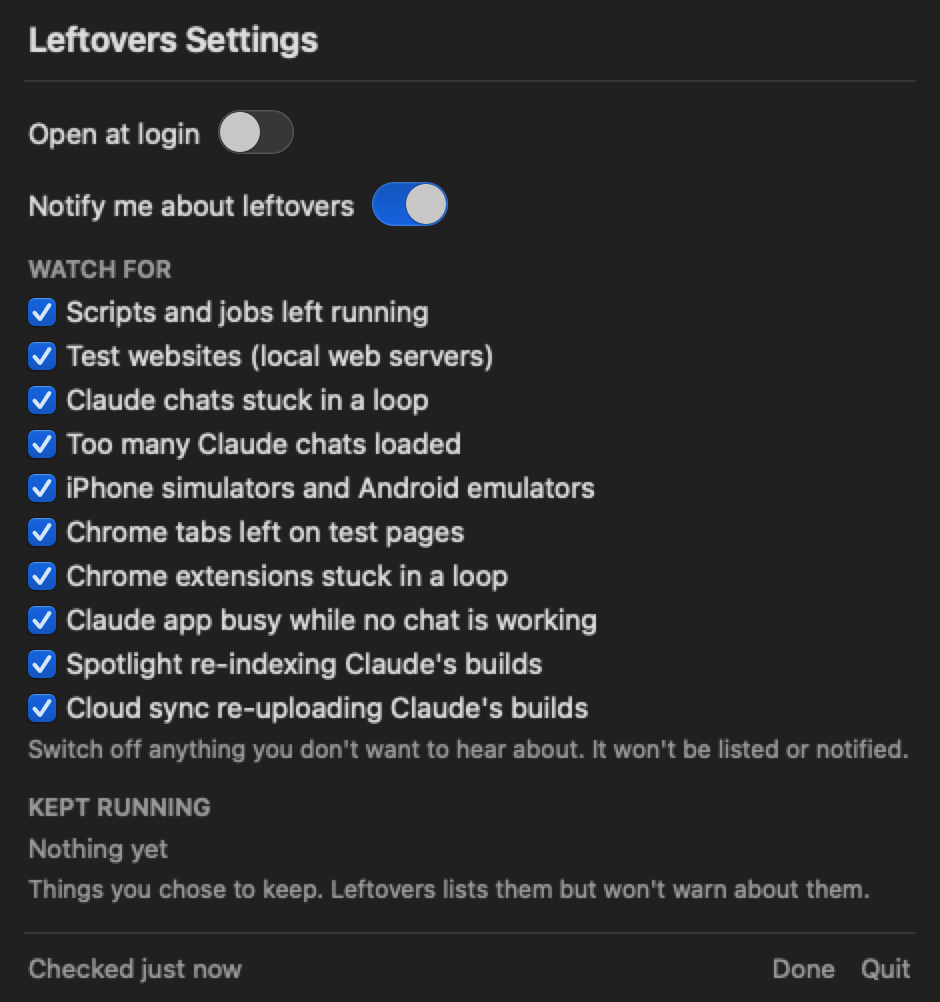
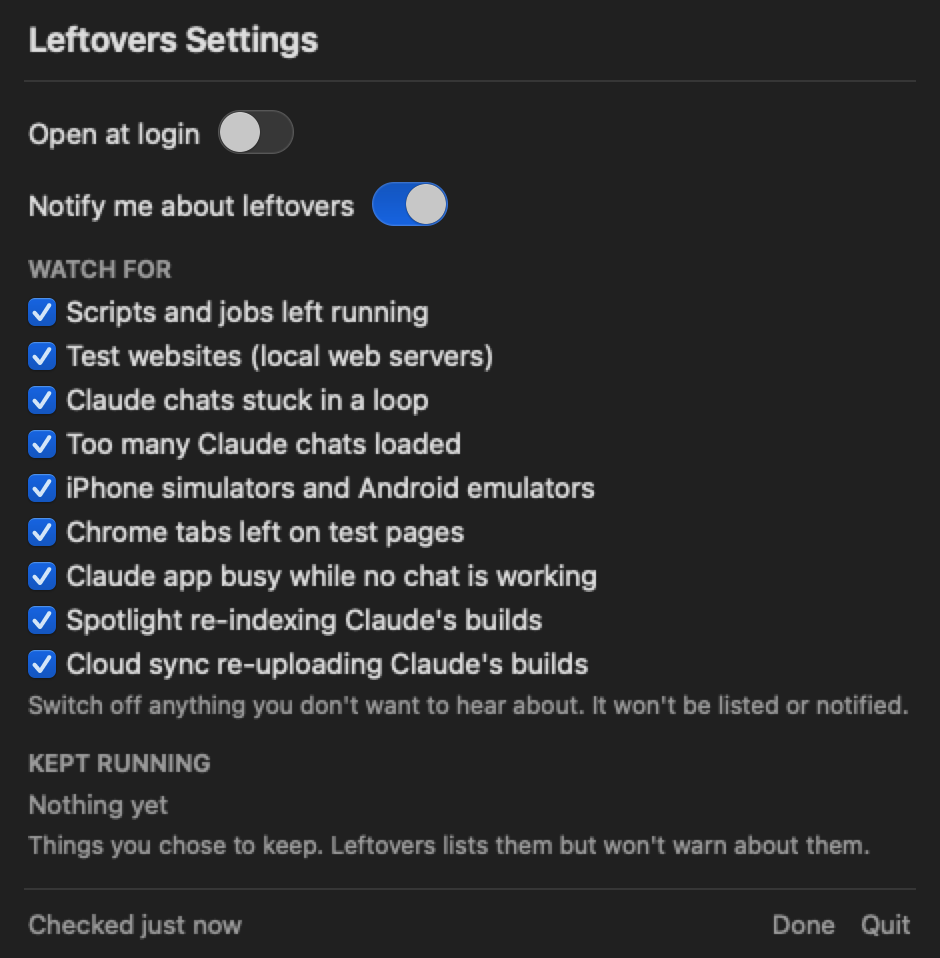
Remove the Chrome extension check (keep Leftovers focused on the Claude desktop app)

diff --git a/Sources/Leftovers/Monitor.swift b/Sources/Leftovers/Monitor.swift
@@ -388,7 +388,7 @@ final class Monitor: NSObject, ObservableObject {
         // (LEFTOVERS_NO_CHROME=1 skips this when testing from Terminal, so macOS doesn't ask Terminal for Chrome access.)
         if ProcessInfo.processInfo.environment["LEFTOVERS_NO_CHROME"] == nil,
            procs.contains(where: { $0.name == "Google Chrome" && $0.path.hasPrefix("/Applications/") }) {
-            // Page processes only (extension processes are checked on their own below).
+            // Page processes only (not extensions).
             let renderers = procs.filter { $0.path.contains("Google Chrome") && $0.name.contains("Renderer")
                 && !$0.args.contains("--extension-process") }
             var chromeCPU = 0.0
@@ -403,17 +403,6 @@ final class Monitor: NSObject, ObservableObject {
                                   cpuPercent: chromeCPU, keepKey: "tab-" + tab.url, noun: "Chrome tab",
                                   apps: server == nil && !tab.url.hasPrefix("file:") ? ["server stopped"] : []))
             }
-        }
-
-        // Chrome extensions stuck working in the background (Claude in Chrome has had this bug). Chrome
-        // doesn't say which extension a process belongs to, so the advice points to Chrome's Task Manager.
-        for p in procs where p.path.contains("Google Chrome") && p.args.contains("--extension-process") {
-            let r = rate(p)
-            guard r.cpu >= 10 else { continue }
-            items.append(Item(id: "ext-\(p.pid)-\(Int(p.start.timeIntervalSince1970))", kind: .chromeExtension,
-                              title: "Chrome extension", detail: "", command: "", pids: [p.pid], started: p.start,
-                              cpuPercent: r.cpu, watts: r.watts, batteryPerHour: perHour(r.watts),
-                              averageCpu: r.average, keepKey: "chrome-extension", noun: "Chrome extension"))
         }
 
         previous = samples

diff --git a/Sources/Leftovers/Classify.swift b/Sources/Leftovers/Classify.swift
@@ -194,8 +194,6 @@ enum Describe {
             return i.verdict.tag == "Stuck" ? "Claude chat stuck in a loop: “\(i.title)”" : "“\(i.title)”"
         case .helperPileup:
             return "Too many Claude chats loaded (\(i.apps.count))"
-        case .chromeExtension:
-            return "Chrome extension busy in the background"
         case .appStarted, .sessionJob:
             return i.ports.isEmpty ? i.noun + place : "Test website" + (i.project.map { " for \($0)" } ?? "")
         case .leftover:
@@ -210,7 +208,7 @@ enum Describe {
 
     /// Category icon (SF Symbols): anything stuck in a loop shares one icon; otherwise it shows the kind of thing.
     static func icon(_ i: Item) -> String {
-        if ["Looks stuck", "Stuck", "Spinning"].contains(i.verdict.tag) { return "arrow.triangle.2.circlepath" }
+        if ["Looks stuck", "Stuck"].contains(i.verdict.tag) { return "arrow.triangle.2.circlepath" }
         switch i.kind {
         case .simulator: return "iphone"
         case .android: return "smartphone"
@@ -219,7 +217,6 @@ enum Describe {
         case .claudePreview: return "macwindow"
         case .spotlight: return "magnifyingglass"
         case .cloudSync: return "icloud.and.arrow.up"
-        case .chromeExtension: return "puzzlepiece.extension"
         case .leftover, .appStarted, .sessionJob: break
         }
         if !i.ports.isEmpty || i.noun == "Test website" { return "globe" }
@@ -252,8 +249,6 @@ enum Describe {
             return ("Fix", "add \(root) to Spotlight's Search Privacy list")
         case .cloudSync:
             return ("Fix", "move Claude's projects out of the synced folder, e.g. to ~/Developer")
-        case .chromeExtension:
-            return ("Fix", "find it in Chrome's Task Manager, then turn it off and on at chrome://extensions")
         case .sessionJob:
             return nil
         case .leftover, .appStarted:

diff --git a/Sources/Leftovers/Model.swift b/Sources/Leftovers/Model.swift
@@ -41,12 +41,11 @@ enum ItemKind: String, Codable, CaseIterable {
     case browserTab    // a Chrome tab showing one of Claude's test pages
     case chatHelper    // the background program behind one Claude chat
     case helperPileup  // far more chat helpers than chats you use (a known Claude app bug)
-    case chromeExtension // a Chrome extension stuck working in the background
 }
 
 /// The kinds of thing Leftovers watches for; each can be switched off in Settings.
 enum Check: String, CaseIterable, Codable {
-    case leftovers, websites, stuckChats, tooManyChats, devices, chromeTabs, chromeExtensions, claudeApp, spotlight, cloudSync
+    case leftovers, websites, stuckChats, tooManyChats, devices, chromeTabs, claudeApp, spotlight, cloudSync
 
     var label: String {
         switch self {
@@ -56,7 +55,6 @@ enum Check: String, CaseIterable, Codable {
         case .tooManyChats: "Too many Claude chats loaded"
         case .devices: "iPhone simulators and Android emulators"
         case .chromeTabs: "Chrome tabs left on test pages"
-        case .chromeExtensions: "Chrome extensions stuck in a loop"
         case .claudeApp: "Claude app busy while no chat is working"
         case .spotlight: "Spotlight re-indexing Claude's builds"
         case .cloudSync: "Cloud sync re-uploading Claude's builds"
@@ -70,7 +68,6 @@ enum Check: String, CaseIterable, Codable {
         case .chatHelper: return .stuckChats
         case .helperPileup: return .tooManyChats
         case .browserTab: return .chromeTabs
-        case .chromeExtension: return .chromeExtensions
         case .claudePreview: return .claudeApp
         case .spotlight: return .spotlight
         case .cloudSync: return .cloudSync

diff --git a/Sources/Leftovers/MenuView.swift b/Sources/Leftovers/MenuView.swift
@@ -25,7 +25,7 @@ struct MenuView: View {
             switch i.kind {
             case .leftover, .appStarted, .sessionJob, .simulator, .android: true
             case .browserTab: i.verdict.level >= .info
-            case .claudePreview, .spotlight, .cloudSync, .helperPileup, .chromeExtension, .chatHelper:
+            case .claudePreview, .spotlight, .cloudSync, .helperPileup, .chatHelper:
                 i.verdict.level >= .warn
             }
         }
@@ -232,9 +232,6 @@ struct ItemRow: View {
         case .helperPileup:
             if let mb = item.memoryMB { rows.append(("Memory", String(format: "%.1f GB in total", mb / 1024))) }
             for (n, chat) in item.apps.enumerated() { rows.append((n == 0 ? "Chats loaded" : " ", chat)) }
-        case .chromeExtension:
-            rows.append(("Busy", String(format: "%.0f%% CPU", item.cpuPercent)))
-            rows.append(("Running for", Describe.duration(now.timeIntervalSince(item.started))))
         case .browserTab:
             rows.append(("Page", item.title))
             rows.append(("Address", item.command))
@@ -319,8 +316,6 @@ struct ItemRow: View {
             if !item.busy { a.append(("Close", stop)) }
         case .helperPileup:
             break
-        case .chromeExtension:
-            a.append(("Open Chrome extensions", { m.openChromeExtensions() }))
         case .cloudSync:
             if let f = item.apps.first { a.append(("Show folder", { m.reveal(f) })) }
         case .sessionJob:

diff --git a/Tests/LeftoversTests/RulesTests.swift b/Tests/LeftoversTests/RulesTests.swift
@@ -218,12 +218,9 @@ private func heavyTrack(for ago: TimeInterval, connectedAgo: TimeInterval? = nil
         #expect(Rules.helperPileup == 15)
     }
 
-    @Test func pileupAndExtensions() {
+    @Test func pileup() {
         var pile = item(.helperPileup); pile.title = "150 chat helpers"; pile.memoryMB = 15_000
         #expect(Rules.judge(pile, track: Track(firstSeen: now), ctx: ctx()).level == .warn)
-        let ext = item(.chromeExtension, cpu: 65, perHour: 4)
-        #expect(Rules.judge(ext, track: heavyTrack(for: 3 * min), ctx: ctx()).level == .none)
-        #expect(Rules.judge(ext, track: heavyTrack(for: 20 * min), ctx: ctx()).level == .warn)
     }
 
     @Test func readsHelperStatusFiles() throws {
@@ -297,6 +294,7 @@ private func heavyTrack(for ago: TimeInterval, connectedAgo: TimeInterval? = nil
         #expect(Check.of(script) == .leftovers)
         #expect(Check.of(item(.android)) == .devices)
         #expect(Check.of(item(.spotlight)) == .spotlight)
-        #expect(Set(ItemKind.allCases.map { Check.of(item($0)) }).count >= 9)
+        // Every kind of row maps to a check (websites are told apart by their port), and every check is used.
+        #expect(Set(ItemKind.allCases.map { Check.of(item($0)) } + [Check.of(site)]) == Set(Check.allCases))
     }
 }

diff --git a/Sources/Leftovers/Rules.swift b/Sources/Leftovers/Rules.swift
@@ -93,8 +93,6 @@ enum Rules {
             parts = [busy, "last Claude work " + (ago(ctx.lastClaudeWorking) ?? "a while ago")]
         case .spotlight, .cloudSync:
             parts = [busy, "\(i.apps.count) build folder\(i.apps.count == 1 ? "" : "s") changed"]
-        case .chromeExtension:
-            parts = [busy, ago(ctx.lastChromeUse).map { "Chrome last used " + $0 } ?? "Chrome not used since"]
         }
         if ctx.kept.contains(i.keepKey) { parts.append("kept") }
         return parts.joined(separator: " · ")
@@ -197,12 +195,6 @@ enum Rules {
             return Verdict(level: .warn, tag: "Pile-up",
                            message: "The Claude app has \(i.title) loaded. They hold about \(String(format: "%.1f", (i.memoryMB ?? 0) / 1024)) GB of memory. Quitting and reopening Claude clears them.")
 
-        case .chromeExtension:
-            if isHeavy(i), heavyFor >= 10 * min * scale {
-                return Verdict(level: .warn, tag: "Spinning",
-                               message: "A Chrome extension has been busy in the background for \(Describe.duration(heavyFor)).\(cost)")
-            }
-            return Verdict(level: .none, tag: "")
 
         }
     }

diff --git a/Sources/Leftovers/DemoRender.swift b/Sources/Leftovers/DemoRender.swift
@@ -114,8 +114,7 @@ enum DemoRender {
             spot.batteryPerHour = nil
             var sync = make(.cloudSync, "Cloud sync", hours: 0.5, perHour: 0, .warn, "Syncing", noun: "Cloud sync")
             sync.apps = ["~/Documents/apps/our-sims/node_modules"]; sync.batteryPerHour = nil
-            let ext = make(.chromeExtension, "Chrome extension", hours: 2, perHour: 4, .warn, "Spinning", noun: "Chrome extension")
-            return ([spot, sync, ext], false)
+            return ([spot, sync], false)
         default:
             return ([stuck, loop, sim, site], false)
         }

diff --git a/Sources/Leftovers/Notifier.swift b/Sources/Leftovers/Notifier.swift
@@ -57,7 +57,7 @@ final class Notifier: NSObject, UNUserNotificationCenterDelegate {
             case .claudePreview: category = "sleep"
             case .browserTab: category = "tab"
             case .spotlight: category = "spotlight"
-            case .cloudSync, .helperPileup, .chromeExtension: category = "review"
+            case .cloudSync, .helperPileup: category = "review"
             default: category = "leftover"
             }
             post(id: i.id, title: title, body: i.verdict.message, category: category, quiet: quiet)

diff --git a/Sources/Leftovers/Actions.swift b/Sources/Leftovers/Actions.swift
@@ -52,10 +52,6 @@ extension Monitor {
         }
     }
 
-    func openChromeExtensions() {
-        _ = Extras.run("/usr/bin/open", ["-a", "Google Chrome", "chrome://extensions"])
-    }
-
     func openSpotlightSettings() {
         if let url = URL(string: "x-apple.systempreferences:com.apple.Spotlight-Settings.extension") {
             NSWorkspace.shared.open(url)

diff --git a/README.md b/README.md
@@ -36,7 +36,6 @@ Every row reads the same way:
 | **Cloud sync** | iCloud/OneDrive/Dropbox busy uploading Claude's build folders. | Show folder |
 | **Claude chat stuck in a loop** | A chat's helper program says it's idle but keeps the CPU busy (a known Claude Code bug). | Close |
 | **Too many chats loaded** | 15 or more chat helpers loaded at once. Claude pre-loads at most 6 on its own, but every chat you open stays loaded until memory runs low, and a known bug has let them reach 150. | (fix shown) |
-| **Chrome extension spinning** | A Chrome extension busy in the background for 10+ minutes (Claude in Chrome has had this bug). | Open Chrome extensions |
 
 
 
